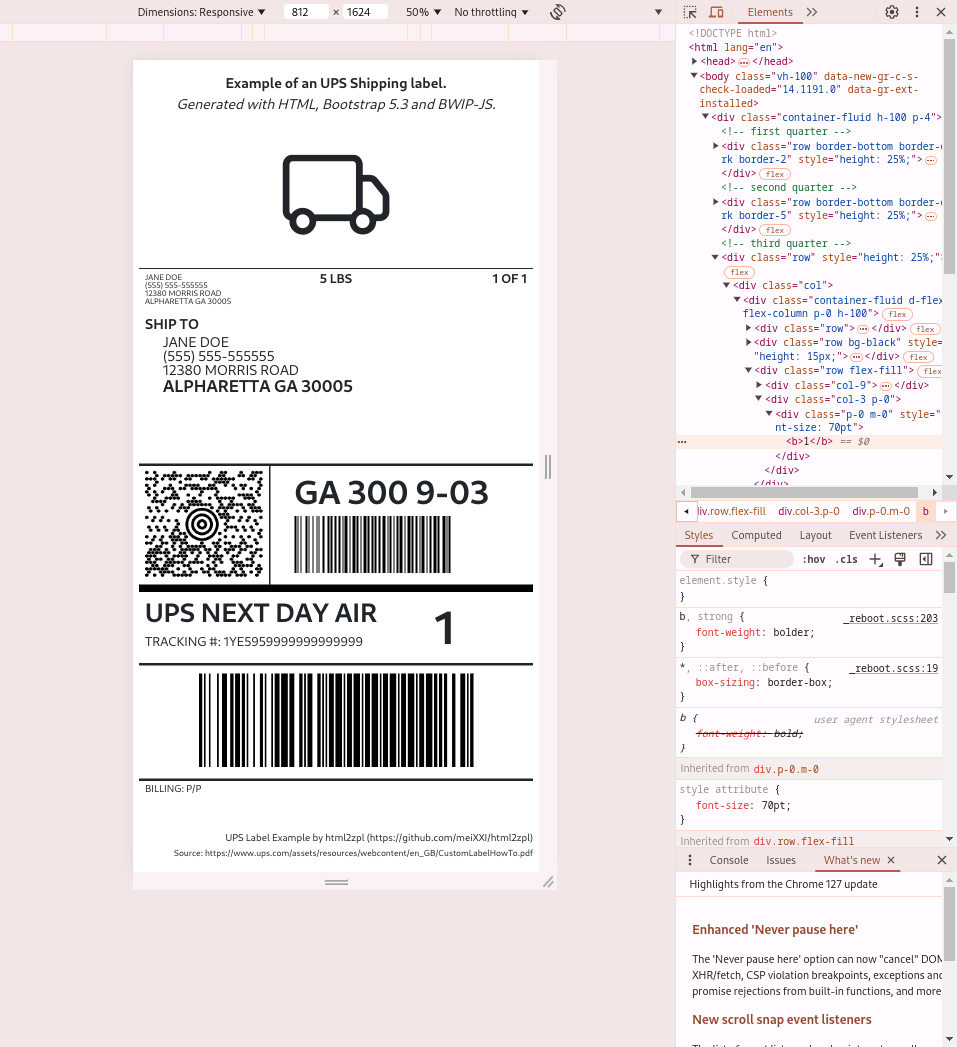
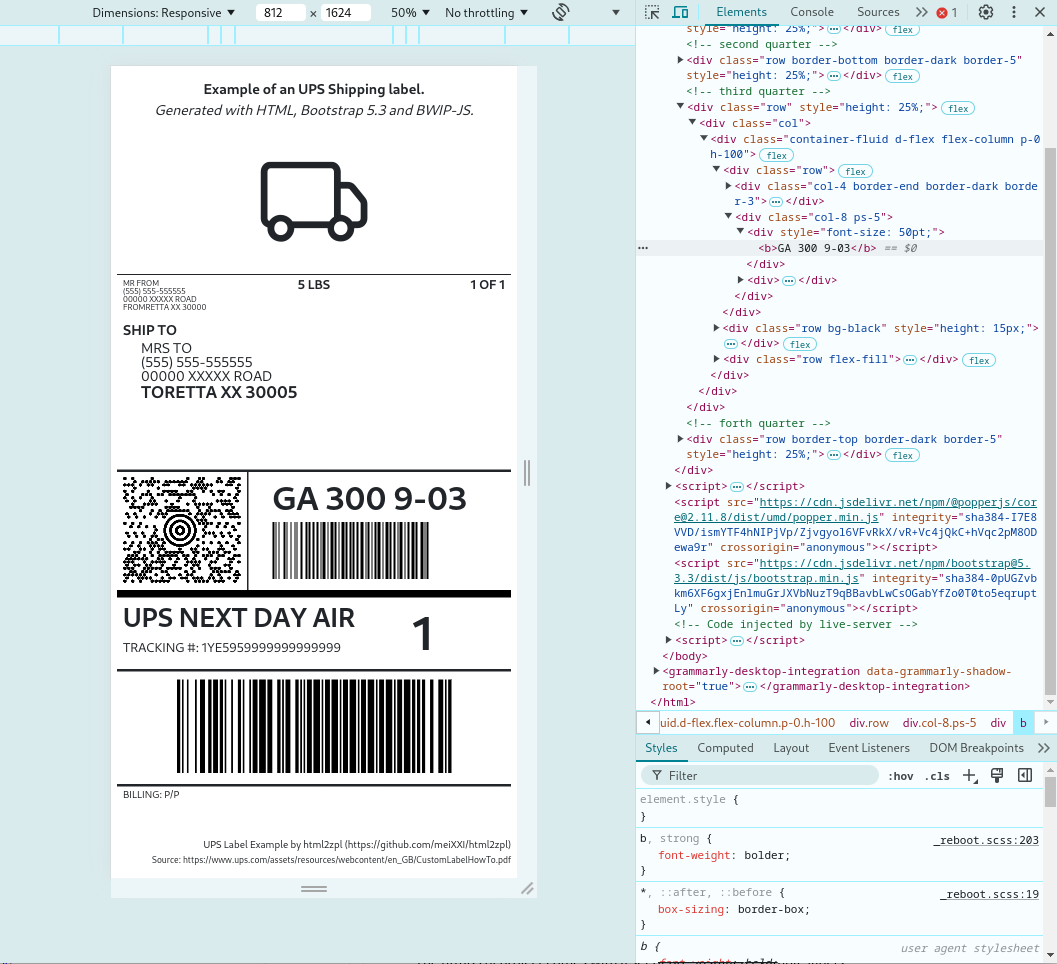
some cosmetic updates

diff --git a/src/main/resources/static/labels/ups-example.html b/src/main/resources/static/labels/ups-example.html
@@ -31,10 +31,10 @@
                 <div class="container-fluid d-flex flex-column p-0 h-100">
                     <div class="row">
                         <div class="col-5 fs-6 lh-1 pt-2"> 
-                            JANE DOE <br />
+                            MR FROM <br />
                             (555) 555-555555 <br />
-                            12380 MORRIS ROAD <br />
-                            ALPHARETTA GA 30005
+                            00000 XXXXX ROAD <br />
+                            FROMRETTA XX 30000
                         </div>
                         <div class="col-2 fs-3 text-center">
                             <b>5 LBS</b>
@@ -50,10 +50,10 @@
 
                     <div class="row flex-fill">
                         <div class="col lh-1 fs-2 ps-5">
-                            JANE DOE <br />
+                            MRS TO <br />
                             (555) 555-555555 <br />
-                            12380 MORRIS ROAD <br />
-                            <div class="fs-1"><b>ALPHARETTA GA 30005</b></div>
+                            00000 XXXXX ROAD <br />
+                            <div class="fs-1"><b>TORETTA XX 30005</b></div>
                         </div>
                     </div>
                 </div>

diff --git a/src/main/java/com/meixxi/html2zpl/controller/util/Responses.java b/src/main/java/com/meixxi/html2zpl/controller/util/Responses.java
@@ -4,7 +4,6 @@ import com.meixxi.html2zpl.controller.v1.model.ProblemDetails;
 import jakarta.servlet.http.HttpServletRequest;
 import org.springframework.http.HttpHeaders;
 import org.springframework.http.HttpStatus;
-import org.springframework.http.MediaType;
 import org.springframework.http.ResponseEntity;
 
 import static org.springframework.http.MediaType.APPLICATION_PROBLEM_JSON_VALUE;

diff --git a/README.md b/README.md
@@ -25,7 +25,7 @@ This example reference the test label 'ups-example.html', pre-installed in the d
 curl --request POST \
      --url http://localhost:8080/v1/html2zpl \
 	 --header 'content-type: application/json' \
-	 --data '{ "url":"http://localhost:8080/labels/ups-example.html", "widthPts":600, "heightPts":800 }'
+	 --data '{ "url":"http://localhost:8080/labels/ups-example.html", "widthPts":812, "heightPts":1624 }'
 ```
 
 ### 3. Verify the output 
@@ -44,6 +44,8 @@ Size Label in Pixes: 812 x 1624	 pixels
 
 Project Path: [src/main/resources/static/labels/ups-example](src/main/resources/static/labels/ups-example.html)  
 Container URL: http://localhost:8080/labels/ups-example.html
+
+**NOTE: Adjust label size to 4 x 8 inches for this label on https://labelary.com/viewer.html**
 
 ![Label Design UPS](./screens/label-design-ups.png)
 
